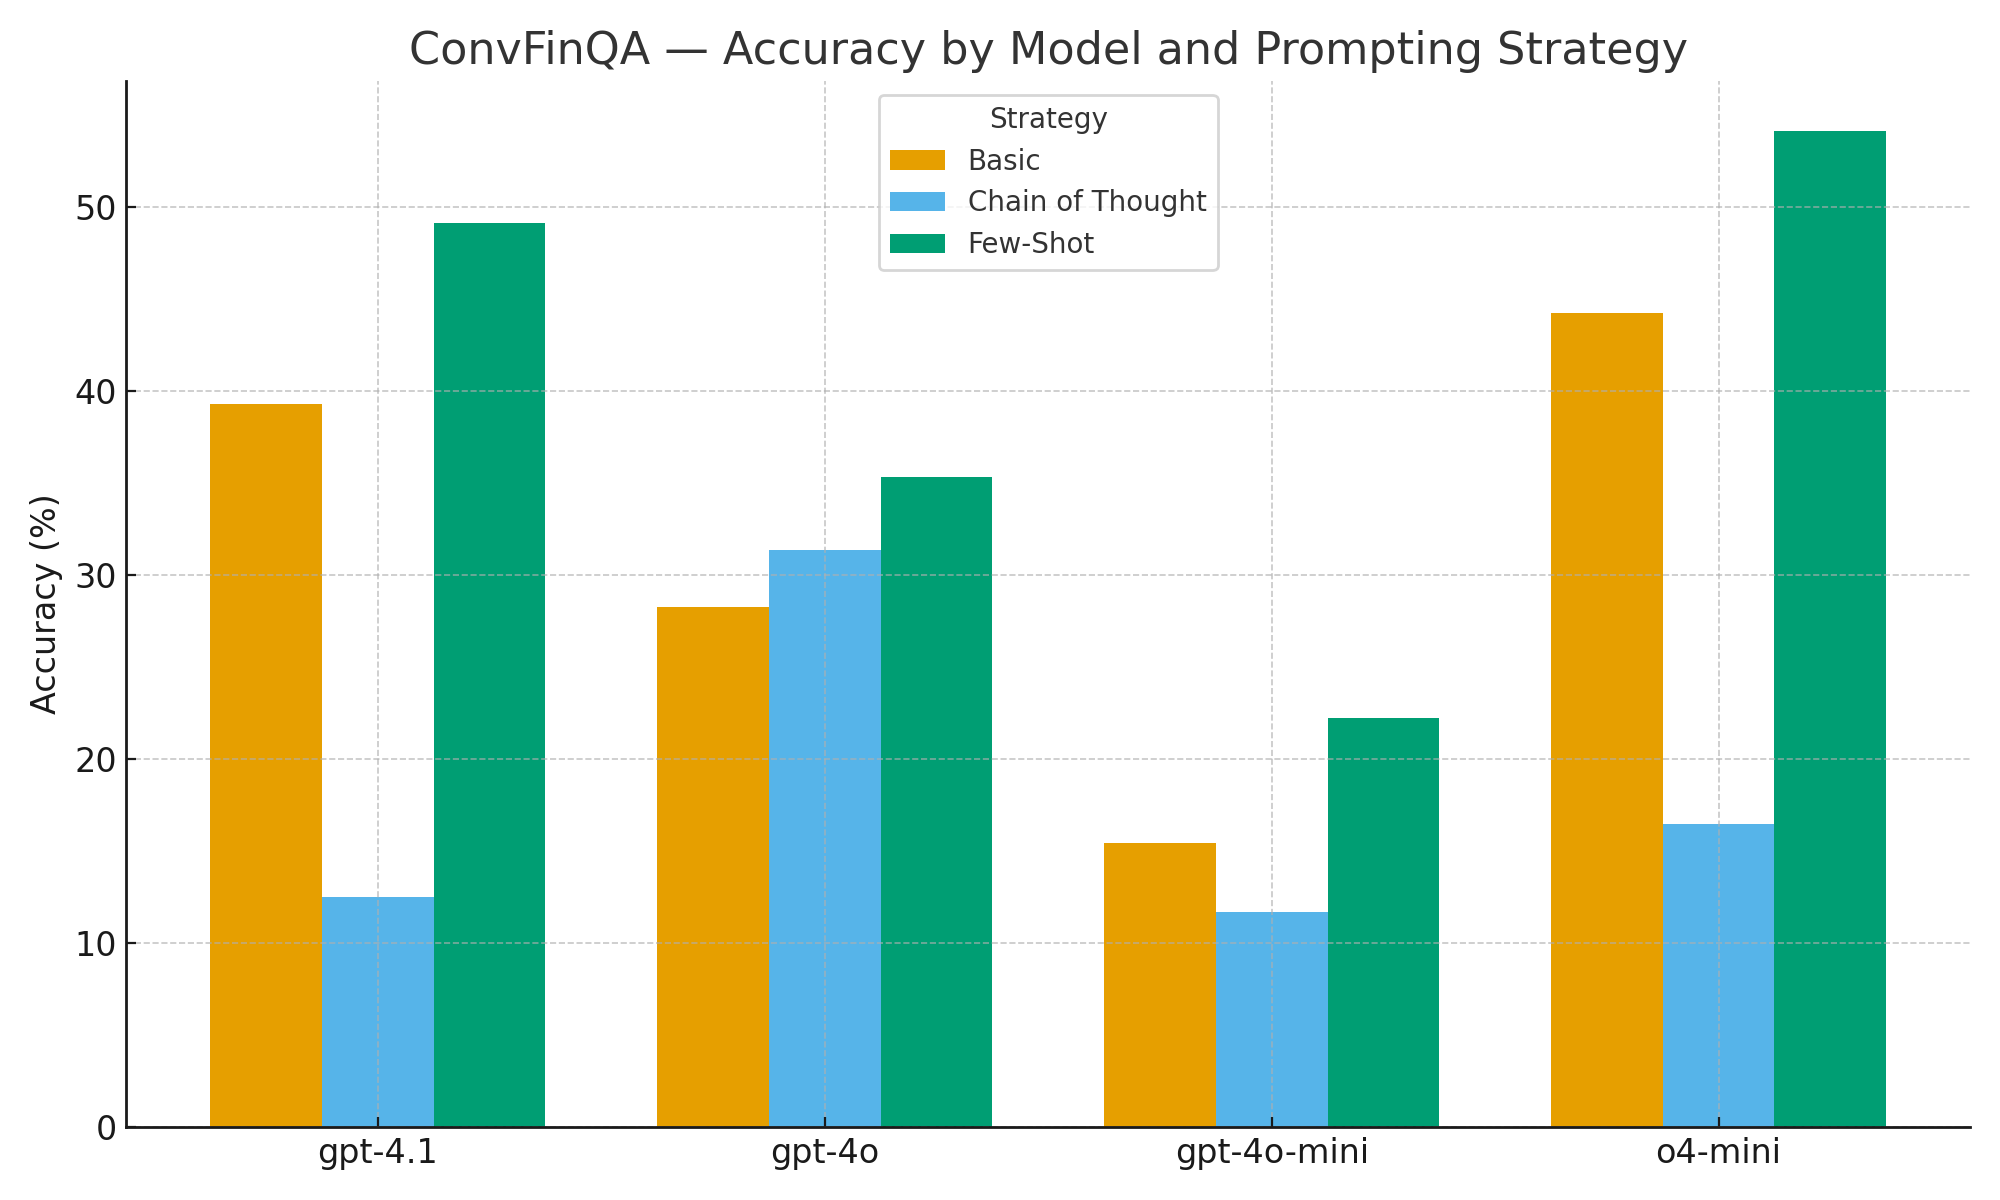
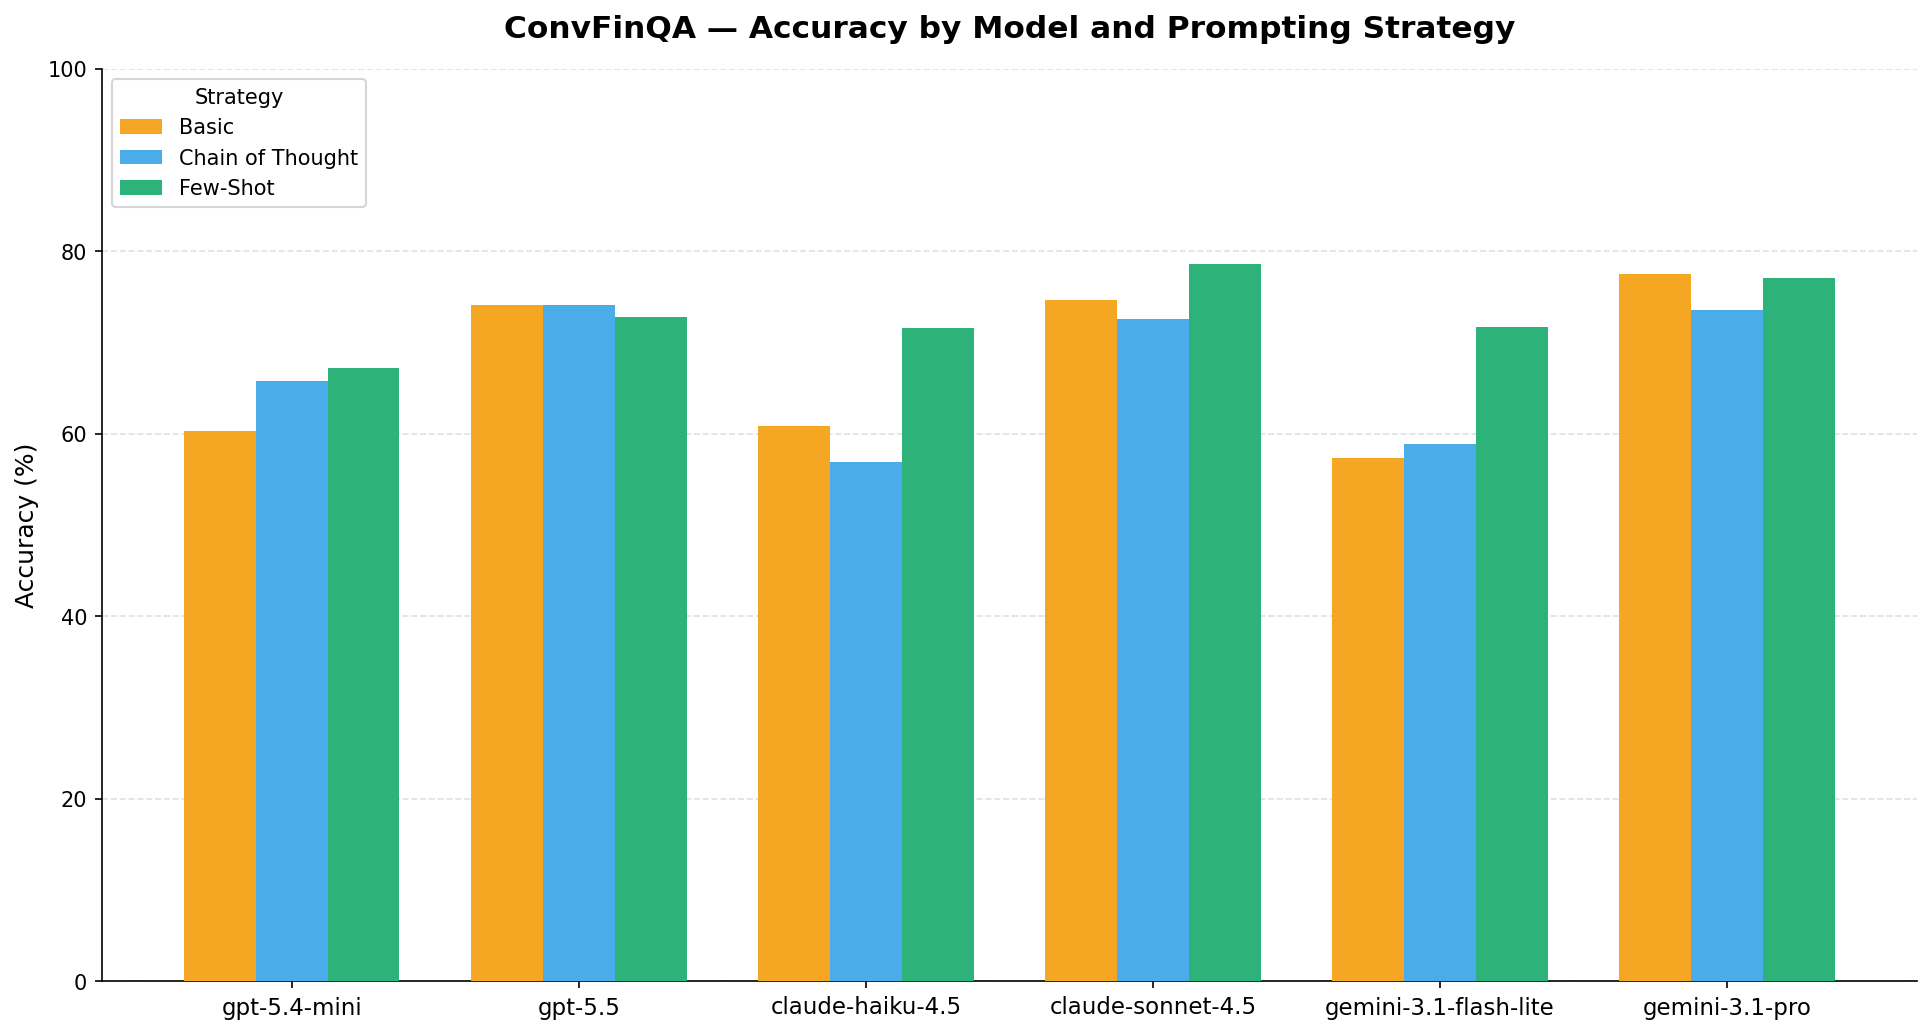
Modernise model selection, update results and docs for n=25 benchmark

diff --git a/app/models.py b/app/models.py
@@ -14,13 +14,9 @@ from pydantic import BaseModel, Field, model_validator
 class ModelName(str, Enum):
     """Supported model names using OpenRouter provider-prefixed identifiers."""
 
-    GPT_4_1 = "openai/gpt-4.1"
-    GPT_4O = "openai/gpt-4o"
-    GPT_4O_MINI = "openai/gpt-4o-mini"
-    O4_MINI = "openai/o4-mini"
-    GPT_5_4 = "openai/gpt-5.4"
     GPT_5_4_MINI = "openai/gpt-5.4-mini"
     GPT_5_5 = "openai/gpt-5.5"
+    CLAUDE_HAIKU_4_5 = "anthropic/claude-haiku-4.5"
     CLAUDE_SONNET_4_5 = "anthropic/claude-sonnet-4.5"
     CLAUDE_SONNET_4_6 = "anthropic/claude-sonnet-4.6"
     GEMINI_3_1_PRO = "google/gemini-3.1-pro-preview"

diff --git a/REPORT.md b/REPORT.md
@@ -2,105 +2,98 @@
 
 ## Overview
 
-I investigate a range of prompting stratergies applied to several of OpenAI's proprietary LLMs on the ConvFinQA dataset. This is a conversational dataset with each entry containing a document featuring a table alongside some additional information. Each conversation contains a series of questions, often the answer to one question can inform the answer to a subsequent question, thus requiring complesophisticated reasoning from an LLM agent to generate correct responses.
+This report evaluates a range of frontier LLMs on the **ConvFinQA** dataset — a conversational financial question-answering benchmark introduced in [Chen et al. (2022)](https://arxiv.org/abs/2210.03849). Each dataset entry contains a financial document (a table with surrounding prose) and a series of related questions, where answers to earlier questions often inform later ones. This requires an LLM agent to perform multi-step numerical reasoning grounded in tabular data.
 
-## Method and architecture
+Six models from three providers (OpenAI, Anthropic, Google) were evaluated across three prompting strategies, with all inference routed through **OpenRouter** using a single API key. All results use `--sample-size 25` and `--seed 42` on the dev set.
 
-### Parsing the dataset
+---
 
-A `ConvFinQaDataParser` class is used to iterate through each conversetion in the ConvFinQa dataset. For each conversation, a dataclass instance is created containing key information about the conversation, such as its id, the document, the questions, and the answers. The final output is a list of these `ConvQA` dataclasses representing the train or test dataset.
+## Method and Architecture
 
-### prompt engineering
+### Dataset Parsing
 
-The prompting is generated using an abstract base class classed `PromptStrategy` as a blueprint. There are then a set of 3 concrete implementations, with each representing a different prompting stratergy. The `BasicPromptStrategy` subclass used a basic prompt to be used as a baseline, telling the LLM its role and instructing it on its relevant input and output formats, then leaving the agent to figure out the details on its own. The `ChainOfThoughtPromptStrategy` utilised a chain-of-thought (COT) prompt pattern, requiring the LLM to clearly layout its reasoning step by step before generating an answers in a single clear list of python strings. The `FewShotPromptStrategy` approach utilised examples to help the agent correctly answer. During my initial experimentation, I noticed often a major limitation of the LLM was not its ability to generate correct answers, but rather its ability to format them in a way that preciseley matches the target answer. As such my fewshot learning examples didnt focous on the document and reasoning, instead they focoused on the mapping of inputs to outputs in the correct form.
+A `ConvFinQaDataParser` class loads the ConvFinQA JSON dataset and parses each conversation into a typed `ConvQA` Pydantic model containing the conversation id, the financial document (`FinancialDoc`), and paired lists of questions and ground-truth answers. The parser supports both the train and dev splits, with optional random sampling and seeding for reproducibility.
 
-### Generating LLM responses
+### Prompt Engineering
 
-The `GetLlmResponse` class is an Abstract base class, providing an interface for any concrete implementations which take in specific model names as inputs and utilise http requests to an API to generate LLM responses. The `OpenAiLlmResponse` is one such implementation, it is initialised with the name of an LLM model, checks if it matches one of the values in the `ModelName` enums, if not raising a value error. Provided the class is correctly initialised, it's `get_response` method can take in a prompt which has some prompt stratergy, alongside a document and some questions, and use these to generate a response.
+Prompts are generated using a Strategy pattern. An abstract base class `PromptStrategy` defines the interface, with three concrete implementations:
 
-The `OpenAiLlmResponse` class is currently configured to support the following LLMs.
+- **`BasicPromptStrategy`**: A minimal prompt providing the document and questions with no additional guidance. Used as a performance baseline.
+- **`ChainOfThoughtPromptStrategy`**: Instructs the model to reason step-by-step before producing final answers, encouraging explicit intermediate reasoning.
+- **`FewShotPromptStrategy`**: Provides three worked examples before the actual question. Crucially, the examples focus on **output format and answer style** rather than document reasoning — this was motivated by early experiments showing that formatting errors were a more common failure mode than reasoning errors.
 
-- `gpt-4.1` 
-- `gpt-4o`
-- `gpt-4o-mini` 
-- `o4-mini`
+### LLM Agent
 
-The `GetAllLlmResponses` class takes in a model type from the list above, alongside a prompting stratergy. It is also able to specify if the training or evaluation dataset should be used, the dataset is then parsed using the `ConvFinQaDataParser` to get a list of `ConvQA` dataclass instances. Each of these `ConvQA` instances is iterated through, and the document and questions are jointly used alongside the prompting stratergy to generate an LLM response. The class also contains an argument to do sampling of the entire dataset, this is done to reduce compute time and token useage, a random seet can also be set as an argument for reproducability. The `GetAllLlmResponses` class contains a `extract_list_from_llm_response` method, this takes the entire string output from a prompt response, and extracts just the final list of strings. 
+Each model is wrapped in a `pydantic-ai` `Agent` configured with:
 
-E.g. given a response of: `the correct answers are ['12', '-8', '£16']`
+- **Structured output**: The agent returns a validated `LlmAnswers(answers: list[str])` Pydantic model, ensuring well-formed responses.
+- **7 arithmetic tools**: `add`, `subtract`, `multiply`, `divide`, `percentage_change`, `greater`, `exp`. The system prompt mandates that all numerical computation must go through these tools rather than being computed inline — this forces a controlled, logged computation path and reduces hallucinated arithmetic.
+- **Rate-limit resilience**: Two retry layers — SDK-level HTTP retries (429/5xx) and an outer exponential backoff loop (1s → 2s → 4s → 8s…) up to `MAX_RETRIES` attempts.
+- **Usage cap**: `request_limit=25` per conversation to prevent runaway tool-call loops.
+- **Amazon Bedrock excluded**: via `OpenRouterProviderConfig(ignore=["amazon-bedrock"])` due to a known bug where Bedrock omits the `arguments` field in tool call responses.
 
-The method will return a list of `['12', '-8', '£16']`
+Generation is **sequential** — one conversation at a time. This is deliberate: each conversation can make up to 25 API requests through the tool-call loop, so concurrent processing would quickly saturate rate limits and trigger thundering-herd backoff cycles.
 
-For each set of questions evaluated in a conversation, the extracted list from the LLM response is appended to the corresponding ConvQA dataclass instance.
+### Evaluation — LLM-as-Judge
 
-### Evaluating responses
+Rather than exact string matching, responses are evaluated by a second **LLM-as-judge** agent hardcoded to `google/gemini-3.1-flash-lite-preview` (the cheapest available model). For each conversation, the judge receives the ground-truth answers and predicted answers as paired lists, and returns a boolean verdict per pair based on **semantic equivalence** — meaning `"3200"` == `"3200.0"`, `"-9.71%"` == `"-9.708%"`, and so on.
 
-Each dataclass instance of `ConvQA` represents a single conversation, these are all processed by the `GetAllLlmResponses` class. The LLM outputs for each conversation are appended to the corresponding dataclass instance of `ConvQA`. The `ConvQA` class now contains correct answers and formatted answers both as lists, iterating through both pairs of lists, the answers can be compared elementwise. If the strings match exactly, the prediction is marked as correct, if not, the prediction is marked as false. In practice this evaluation mechanism can lead to responses which are incredibly similar being marked as different, as discussed in the Error Analysis section. Each set of correct and predicted elements are compared for each conversation, and these are used to compute accuracy.
+This addresses a major limitation of exact-match evaluation, where a model that is conceptually correct but uses different precision or formatting is incorrectly penalised. Judge calls are run concurrently (capped at 5 via `asyncio.Semaphore`) since each is a single, cheap request with no tool calls.
 
-### Results
+Accuracy is computed per conversation as `correct / total * 100`, then averaged across all conversations.
 
-In total 4 LLM agents were evaluated with 3 prompting stratergies each, the following models were all evaluated on sample sizes of 50 conversations: `gpt-4.1``gpt-4o``gpt-4o-mini`. Whilst the `o4-mini` model used a sample size of 20, due to greater latencies and token costs.
+---
 
-| Model       | Prompting Strategy | Accuracy (%) |
-| ----------- | ------------------ | ------------ |
-| gpt-4.1     | Basic              | 39.27        |
-| gpt-4.1     | Chain of Thought   | 12.53        |
-| gpt-4.1     | Few-Shot           | 49.13        |
-| gpt-4o      | Basic              | 28.29        |
-| gpt-4o      | Chain of Thought   | 31.37        |
-| gpt-4o      | Few-Shot           | 35.30        |
-| gpt-4o-mini | Basic              | 15.43        |
-| gpt-4o-mini | Chain of Thought   | 11.67        |
-| gpt-4o-mini | Few-Shot           | 22.25        |
-| o4-mini     | Basic              | 44.23        |
-| o4-mini     | Chain of Thought   | 16.50        |
-| o4-mini     | Few-Shot           | 54.15        |
+## Results
 
-
-**Visual Performance Analysis**: The chart below provides a comprehensive view of all model-strategy combinations, clearly illustrating the performance patterns across the evaluation.
+| Model                 | Basic (%) | Chain-of-Thought (%) | Few-Shot (%) | **Best (%)** |
+| --------------------- | --------- | -------------------- | ------------ | ------------ |
+| **claude-sonnet-4.5** | 74.63     | 72.63                | **78.63**    | **78.63**    |
+| gemini-3.1-pro        | **77.50** | 73.59                | 77.06        | **77.50**    |
+| gpt-5.5               | 74.16     | 74.16                | 72.83        | **74.16**    |
+| claude-haiku-4.5      | 60.86     | 56.90                | **71.59**    | **71.59**    |
+| gemini-3.1-flash-lite | 57.39     | 58.86                | **71.72**    | **71.72**    |
+| gpt-5.4-mini          | 60.26     | 65.82                | **67.26**    | **67.26**    |
 
 ![ConvFinQA Results - Accuracy by Model and Prompting Strategy](images/accuracy_by_model_strategy.png)
 
 **Key Observations**:
-- **Few-Shot learning consistently outperforms** other strategies across all models, demonstrating the importance of structured examples for financial QA tasks
-- **o4-mini emerges as the top performer**, achieving 54.15% accuracy with Few-Shot prompting - significantly higher than other models
-- **Chain-of-Thought shows mixed results**, performing well with gpt-4o (31.37%) but poorly with other models, suggesting model-specific optimization needs
-- **Performance hierarchy**: o4-mini > gpt-4.1 > gpt-4o > gpt-4o-mini, indicating that model size and architecture matter significantly for this task
 
+- **Few-shot is the dominant strategy**, winning or tying for best in 5 out of 6 models. The only exception is gemini-3.1-pro, where basic and few-shot are within 0.5% of each other.
+- **claude-sonnet-4.5 achieves the highest overall accuracy** at 78.63% with few-shot prompting.
+- **Budget models are surprisingly competitive**: both `claude-haiku-4.5` and `gemini-3.1-flash-lite` reach ~72% with few-shot — within 7 percentage points of the best model at a fraction of the cost. This makes them strong candidates when cost efficiency matters.
+- **gpt-5.5 is strategy-insensitive**: scores of 74.16%, 74.16%, and 72.83% across basic, CoT, and few-shot respectively suggest the model is robust to prompting approach but may have a ceiling on this task.
+- **Chain-of-thought underperforms** relative to few-shot for most models. Explicitly requesting step-by-step reasoning appears to introduce verbosity that can conflict with the structured output format required by the agent.
+- **gpt-5.4-mini is the weakest performer** at n=25 despite appearing strong at n=5 — an early indication that small sample sizes produce unreliable rankings.
 
-
-
-### Outputs
-
-When the `ConversationsEvaluator` is ran, a new directory will be created in the `/app/outputs `directory. If the `outputs` directory does not yet exist, it will also be created. The newly created directory, will have a dynamically created name, corresponding to the model ran and the prompting stratergy in the form:
-
-`<model_name>_<prompting_stratergy>`
-
-For example: if `gpt-4.1` was ran with a prompting stratergy of `basic`, the file name would be `gpt-4.1_basic`.
-
-Inside the newly created directory 2 files are created. The first is a `.json` file, for each conversation evaluated, it contains details such as the conversation id, document, questions, and formatted LLM response. The second document is a `.txt` file, with summary information like sample size and LLM prediction accuracy. 
-
-An example of the output structure with several dynamically created directories is shown below
-
-![alt text](images/image1.png)
+---
 
 ## Error Analysis
 
-Upon investigation, the vast majority of error cases appear to come from the LLMs responses not being an exact match to those in the correct answers lists, this will often be too trivial differences such as rounding, or inconsistent use of symbols like $ and % sometimes but not always. 
+The LLM-as-judge evaluator handles the most common failure mode — formatting mismatches — but errors still occur in several patterns:
 
-For example, here was a set of correct answers: `["3200", "3160", "40", "1.3%"]`
+**Incorrect value extraction**: The model reads the wrong row or column from the financial table. This is particularly common on documents with complex multi-level headers or where the relevant value appears in the prose rather than the table.
 
-And here were the llms predictions: `["3200.0", "3160.0", "40.0", "1.27%"]`
+**Wrong computation path**: The model calls the correct tools but in the wrong order, or uses an intermediate result incorrectly in a subsequent question. The conversational nature of the dataset means early errors propagate through later answers.
 
-here the LLm was conceptually correct for all questions, yet due to not giving the answers with the same level of precision, all 4 will be marked incorrect and the LLM has effectiveley achieved a 0% accuracy score for this question. This shows how direct string matching can lead to the performance of the LLMs being heavily understated.
+**Placeholder answers**: On highly complex multi-document conversations (`Double_*` entries), some models return `"placeholder"` strings rather than attempting an answer. This is explicitly penalised as incorrect by the judge. The system prompt explicitly forbids placeholder answers, but some models (notably claude-sonnet-4.6) ignored this instruction consistently.
 
+**Unit and scale errors**: Models occasionally return values in different units (e.g. returning millions when the answer expects thousands), or include currency symbols when the ground truth does not.
 
-## Future Work 
+---
 
-- Evaluation of models from other cloud providers such as Gemini and Claude
-- Evaluation of opensource models, such as Llama and Mistral, can be done through Ollama or huggingface (highly dependent on compute resources)
-- Expansion of evaluation framework, other methods are more comprehensive than direct string matching, such as:
-  - setting a tolorance (if off by less than some small amount treat the answer as correct)
-  - Make the responses insensitive to units, remove % and £ symbols ect.
-  - get embeddings and take cosine similarity
-- Additional prompt engineering, seeing how different templates can impact performanc
+## Outputs
+
+Each pipeline run writes results to `outputs/<model-slug>_<strategy>/`, containing:
+
+- **`convfinqa_responses.json`**: Full per-conversation output including the document, questions, ground-truth answers, LLM answers, and per-answer judge verdicts.
+- **`eval.txt`**: Summary with model name, prompting strategy, sample size, and average accuracy.
+
+---
+
+## Future Work
+
+- **Larger sample sizes**: n=25 provides reasonable signal but n=50+ would give more stable rankings, particularly for distinguishing closely-performing models.
+- **Open-source models**: Evaluation of Llama and Mistral variants via Ollama or HuggingFace, contingent on available compute.
+- **Advanced prompting**: Self-consistency (majority voting across multiple runs), and retrieval-augmented prompts that highlight the most relevant table rows.
+- **Concurrent generation**: Explore whether a lower concurrency limit (e.g. 2–3 conversations) is viable for faster runs without triggering sustained rate limiting.

diff --git a/README.md b/README.md
@@ -83,13 +83,9 @@ docker compose exec app convfinqa --model-name google/gemini-3.1-flash-lite-prev
 
 | Model                                  | Provider  |
 | -------------------------------------- | --------- |
-| `openai/gpt-4.1`                       | OpenAI    |
-| `openai/gpt-4o`                        | OpenAI    |
-| `openai/gpt-4o-mini`                   | OpenAI    |
-| `openai/o4-mini`                       | OpenAI    |
-| `openai/gpt-5.4`                       | OpenAI    |
 | `openai/gpt-5.4-mini`                  | OpenAI    |
 | `openai/gpt-5.5`                       | OpenAI    |
+| `anthropic/claude-haiku-4.5`           | Anthropic |
 | `anthropic/claude-sonnet-4.5`          | Anthropic |
 | `anthropic/claude-sonnet-4.6`          | Anthropic |
 | `google/gemini-3.1-pro-preview`        | Google    |
@@ -110,20 +106,28 @@ Results are written to `outputs/<model>_<strategy>/`:
 
 ## Results
 
+All results below use a fixed random seed (`--seed 42`) and `--sample-size 25` on the dev set.
+
 <div align="center">
 
-| Model       | Best Strategy | Accuracy (%) | Sample Size |
-| ----------- | ------------- | ------------ | ----------- |
-| **o4-mini** | Few-Shot      | **54.15**    | 20          |
-| gpt-4.1     | Few-Shot      | 49.13        | 50          |
-| gpt-4o      | Few-Shot      | 35.30        | 50          |
-| gpt-4o-mini | Few-Shot      | 22.25        | 50          |
+| Model | Basic (%) | Chain-of-Thought (%) | Few-Shot (%) | **Best (%)** |
+| ----- | --------- | -------------------- | ------------ | ------------ |
+| **claude-sonnet-4.5** | 74.63 | 72.63 | **78.63** | **78.63** |
+| gemini-3.1-pro | **77.50** | 73.59 | 77.06 | **77.50** |
+| gpt-5.5 | 74.16 | 74.16 | 72.83 | **74.16** |
+| claude-haiku-4.5 | 60.86 | 56.90 | **71.59** | **71.59** |
+| gemini-3.1-flash-lite | 57.39 | 58.86 | **71.72** | **71.72** |
+| gpt-5.4-mini | 60.26 | 65.82 | **67.26** | **67.26** |
 
 </div>
 
-> **Key Insight**: o4-mini significantly outperforms all other models, achieving 54.15% accuracy - over 2x better than gpt-4o-mini and 5% higher than gpt-4.1.
+> **Key Insights**:
+> - **Few-shot is the dominant strategy** — it wins or ties for best in 5 out of 6 models.
+> - **claude-sonnet-4.5** achieves the highest overall accuracy at **78.63%** with few-shot prompting.
+> - **Budget models punch above their weight** — both `claude-haiku-4.5` and `gemini-3.1-flash-lite` reach ~72% with few-shot, closely matching the flagship models at a fraction of the cost.
+> - **gpt-5.5 is strategy-insensitive** — nearly identical scores across all three prompting approaches.
 
-**Performance Comparison**: The chart below shows accuracy across all model-strategy combinations, highlighting Few-Shot learning's consistent superiority and o4-mini's unexpected strong performance.
+**Performance Comparison**: The chart below shows accuracy across all model-strategy combinations.
 
 ![ConvFinQA Results - Accuracy by Model and Prompting Strategy](images/accuracy_by_model_strategy.png)
 
